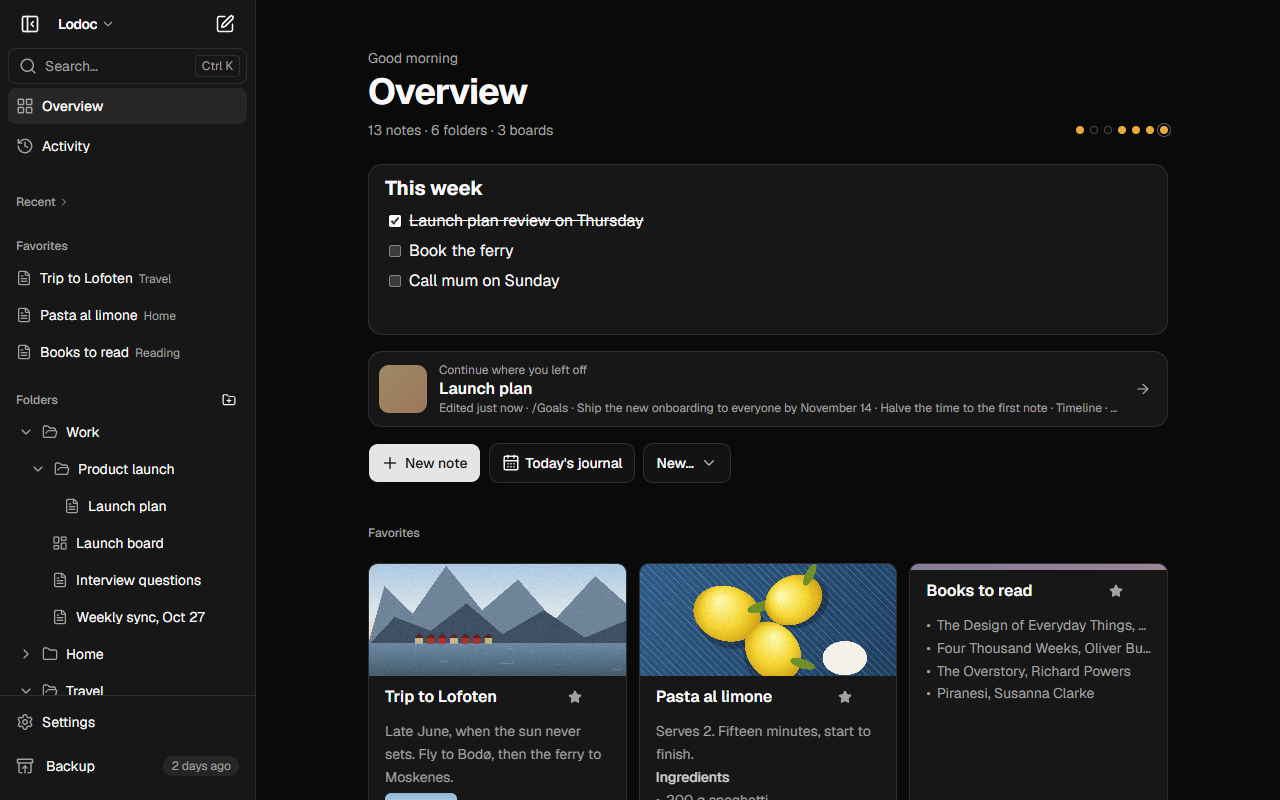
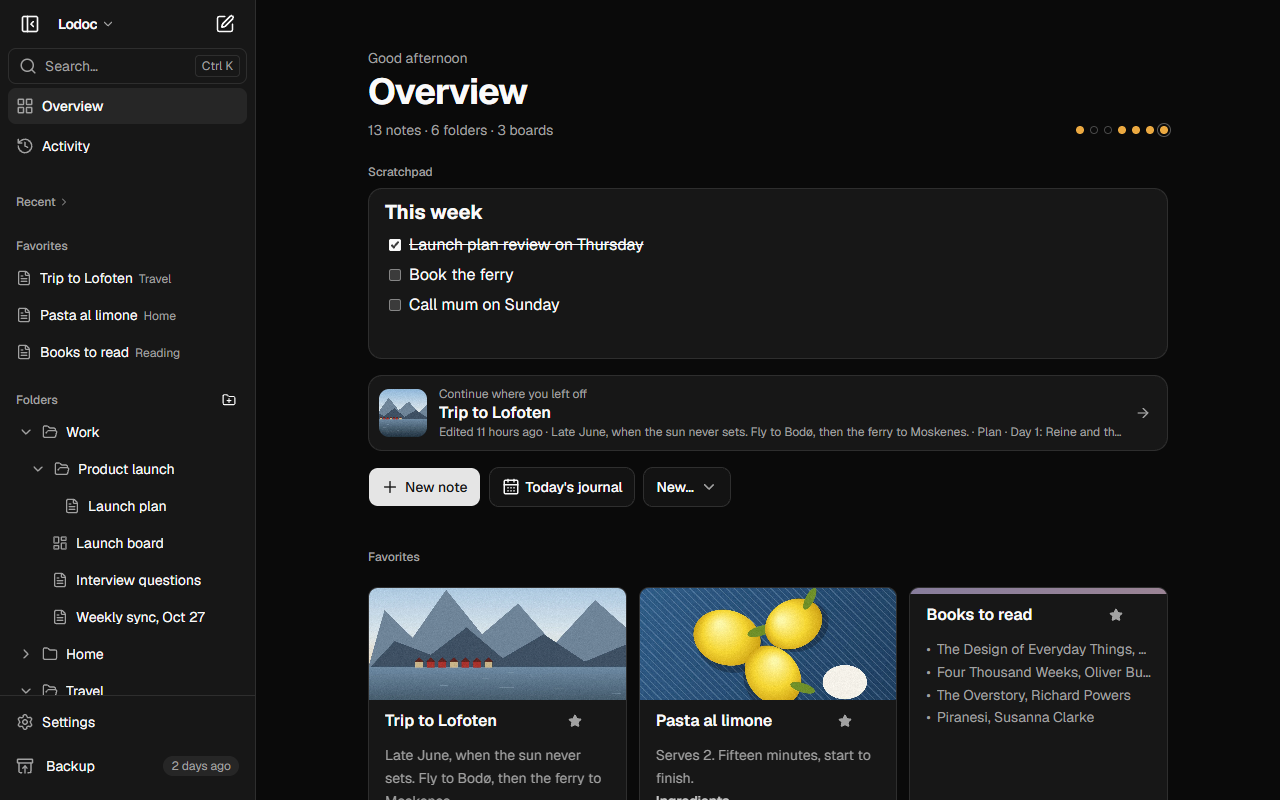
feat(overview): the pinned box is labelled Scratchpad
A placeholder is no label (and is gone once something is written): the box at the top of the overview gets a
visible "Scratchpad" heading like the overview's other sections, which also names it for screen readers. Its note
is called Scratchpad in search; an existing one named "Pinned on the overview" is renamed when the overview opens.

Changed region(s): [[0.2812, 0.4375, 0.9062, 1.0], [0.2812, 0.1875, 0.5, 0.4062], [0.3125, 0.0625, 0.375, 0.0938]]

diff --git a/src/components/home/OverviewPad.tsx b/src/components/home/OverviewPad.tsx
@@ -6,9 +6,10 @@ import { getOverviewNote } from '@/db/notes'
 const NoteEditor = lazy(() => import('@/components/editor/NoteEditor').then((m) => ({ default: m.NoteEditor })))
 
 /**
- * Pinned on the overview: a note of its own, written right here (bold, lists, checklists, "/" for more), for
- * what should stay in view. It is an ordinary note underneath (saved, searchable, with history, in backups),
- * just not listed anywhere else.
+ * The scratchpad on the overview: a note of its own, written right here (bold, lists, checklists, "/" for more),
+ * for what should stay in view. It is an ordinary note underneath (saved, searchable, with history, in backups),
+ * just not listed anywhere else. Its name sits above it like the overview's other sections, since a placeholder
+ * alone is no label (and is gone once something is written).
  */
 export function OverviewPad() {
   const [id, setId] = useState<string | null>(null)
@@ -17,12 +18,17 @@ export function OverviewPad() {
   }, [])
   const note = useLiveQuery(() => (id ? db.notes.get(id) : undefined), [id])
   return (
-    <section aria-label="Pinned on the overview" className="mt-6 min-h-14 rounded-xl border bg-card px-1 focus-within:border-control-border" data-overview-pad>
-      {note && (
-        <Suspense fallback={null}>
-          <NoteEditor key={note.id} note={note} pad />
-        </Suspense>
-      )}
+    <section aria-labelledby="overview-pad-label" className="mt-6">
+      <h2 id="overview-pad-label" className="mb-2 text-xs font-medium text-muted-foreground">
+        Scratchpad
+      </h2>
+      <div className="min-h-14 rounded-xl border bg-card px-1 focus-within:border-control-border" data-overview-pad>
+        {note && (
+          <Suspense fallback={null}>
+            <NoteEditor key={note.id} note={note} pad />
+          </Suspense>
+        )}
+      </div>
     </section>
   )
 }

diff --git a/src/db/notes.ts b/src/db/notes.ts
@@ -19,17 +19,25 @@ export const isListed = (note: Note) => !note.overview
 
 let overviewNote: Promise<string> | null = null
 
+/** The name of the overview's scratchpad note (as search shows it); it was "Pinned on the overview" before */
+const OVERVIEW_TITLE = 'Scratchpad'
+const OLD_OVERVIEW_TITLE = 'Pinned on the overview'
+
 /**
- * The note pinned on the overview, made the first time it is needed (quietly: it is part of the overview, not
- * something the user created). One at a time, even if asked twice at once.
+ * The note pinned on the overview, its scratchpad, made the first time it is needed (quietly: it is part of the
+ * overview, not something the user created). One at a time, even if asked twice at once.
  */
 export function getOverviewNote(): Promise<string> {
   overviewNote ??= (async () => {
     const existing = await db.notes.filter((n) => !!n.overview).first()
-    if (existing) return existing.id
+    if (existing) {
+      // Its old name follows the box's new one, without counting as an edit
+      if (existing.title === OLD_OVERVIEW_TITLE) await db.notes.update(existing.id, { title: OVERVIEW_TITLE })
+      return existing.id
+    }
     const now = Date.now()
     const id = nanoid()
-    await db.notes.add({ id, title: 'Pinned on the overview', content: [], folderId: null, order: 0, favorite: false, pinned: false, tags: [], overview: true, createdAt: now, updatedAt: now })
+    await db.notes.add({ id, title: OVERVIEW_TITLE, content: [], folderId: null, order: 0, favorite: false, pinned: false, tags: [], overview: true, createdAt: now, updatedAt: now })
     return id
   })().catch((error) => {
     overviewNote = null

diff --git a/src/components/editor/NoteEditor.tsx b/src/components/editor/NoteEditor.tsx
@@ -118,7 +118,7 @@ export function NoteEditor({ note, embedded = false, pad = false }: { note: Note
     dictionary: pad ? padDictionary : dictionary,
     extensions: [arrowsExtension, emptyLinesExtension, templateHintsExtension, inlineTagsExtension],
     // Accessible name for the editable area (screen readers otherwise announce just "edit text")
-    domAttributes: { editor: { 'aria-label': pad ? 'Pinned on the overview' : 'Note content' } },
+    domAttributes: { editor: { 'aria-label': pad ? 'Scratchpad' : 'Note content' } },
   })
 
   // The headings for the outline, kept in step with the editor (only re-rendered when they change)

diff --git a/site/src/content/docs/organizing.md b/site/src/content/docs/organizing.md
@@ -1,6 +1,6 @@
 ---
 title: Organizing
-description: Folders, favorites, search, today's journal, the note pinned on the overview, the Trash and Activity.
+description: Folders, favorites, search, today's journal, the scratchpad on the overview, the Trash and Activity.
 order: 3
 ---
 
@@ -27,9 +27,9 @@ Folders can hold notes, boards and other folders. Notes outside any folder are l
 
 One note per day: **Today's journal** on the overview, in the command palette, or `Ctrl` + `Alt` + `J`. It's made from the journal template the first time each day, and opens the same note again after that. Journal notes go into a *Journal* folder, or wherever you moved the last one.
 
-## Pinned on the overview
+## The scratchpad
 
-The box at the top of the overview is a note of its own, for what you want to keep in view: a plan for the week, a short list, a reminder. Write right there, with **bold**, lists, checklists and everything `/` offers. It's saved like any note (searchable, with history and in backups), but it isn't listed in the sidebar or folders.
+The **Scratchpad** at the top of the overview is a note of its own, for what you want to keep in view: a plan for the week, a short list, a reminder. Write right there, with **bold**, lists, checklists and everything `/` offers. It's saved like any note (searchable, with history and in backups), but it isn't listed in the sidebar or folders.
 
 ## The Trash and Activity
 

diff --git a/site/src/content/changelog/0.5.md b/site/src/content/changelog/0.5.md
@@ -11,7 +11,7 @@ summary: 'Settings in one place, high contrast and reduced motion, and a quieter
 - **Reduce motion** in Settings → Accessibility: no animations, things change at once. *Full* keeps the motion even if your system asks for less.
 - Contrast and motion follow your system at first, and can be switched from the command palette too.
 - Settings → Backup shows how much space Lodoc uses in this browser.
-- **Pinned on the overview**: the box at the top of the overview is now a note of its own for what you want to keep in view, with bold, lists and checklists. It replaces *Write something down*, which only made new notes (New note does that).
+- **Scratchpad** on the overview: the box at the top of the overview, now labelled, is a note of its own for what you want to keep in view, with bold, lists and checklists. It replaces *Write something down*, which only made new notes (New note does that).
 - **Polaroids** on boards: an image can be shown in a white frame, slightly tilted, with a caption under the picture (the buttons in its toolbar). The caption also describes the image for screen readers and Find on board.
 
 ## Improved
